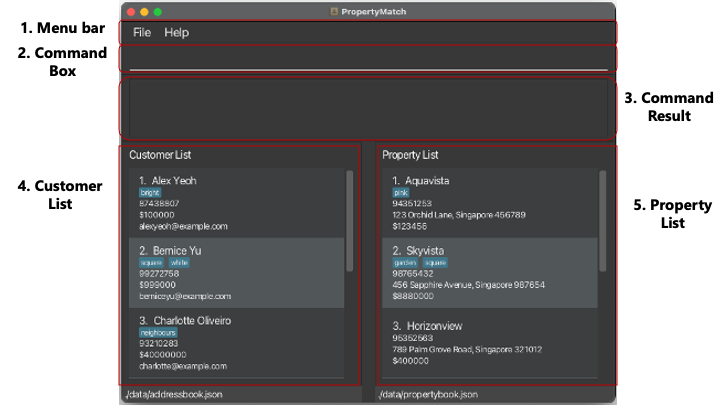
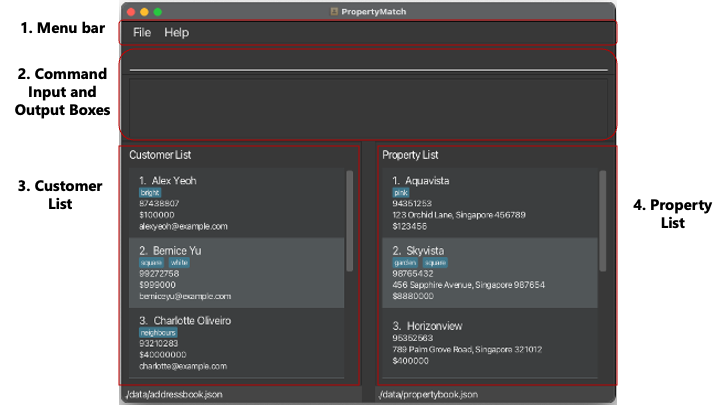
Update Interface Layout in UserGuide.md

diff --git a/docs/UserGuide.md b/docs/UserGuide.md
@@ -69,7 +69,7 @@ that make up this window.
 ![UserInterface](images/user-guide/UserInterface.png)
 
 ### 1. Menu Bar
-
+The Menu Bar is your command center, allowing you to exit the application and look for our user guide.
 
 ### 2. Command Input and Output Boxes
 These boxes are located at the top section of the window.<br><br>
@@ -102,7 +102,7 @@ Here are some commands you can test to start with.
 
 You can refer to the [Features](#features) below for the details of each command.
 
-### 2. Customer List
+### 3. Customer List
 You can find the customer list located at the left section of the window.<br><br>
 <img src="images/user-guide/CustomerList.png" width="300" /><br><br>
 The customer list displays information regarding customers who are currently stored in PropertyMatch's database.
@@ -111,7 +111,7 @@ Note that it might not be showing *all* the customers in the database all the ti
 
 You can also filter and modify the customer list using the commands given in the [Features](#features) section below.
 
-### 3. Property List
+### 4. Property List
 You can find the property list located at the right section of the window.<br><br>
 <img src="images/user-guide/PropertyList.png" width="300" /><br><br>
 The property list displays information regarding properties that are currently stored in PropertyMatch's database.
@@ -120,9 +120,9 @@ Note that it might not be showing *all* the properties in the database all the t
 
 You can also filter and modify the property list using the commands given in the [Features](#features) section below.
 
-### 4. Help Window
+### 5. Help Window
 This will appear as a separate window.
-![Help Window](images/HelpWindow.png)
+![Help Window](images/user-guide/HelpWindow.png)
 The __help window__ displays a link to PropertyMatch's User Guide, which is the online version of this document. :)
 
 It appears when you execute the [Help Command](#viewing-help-help).
